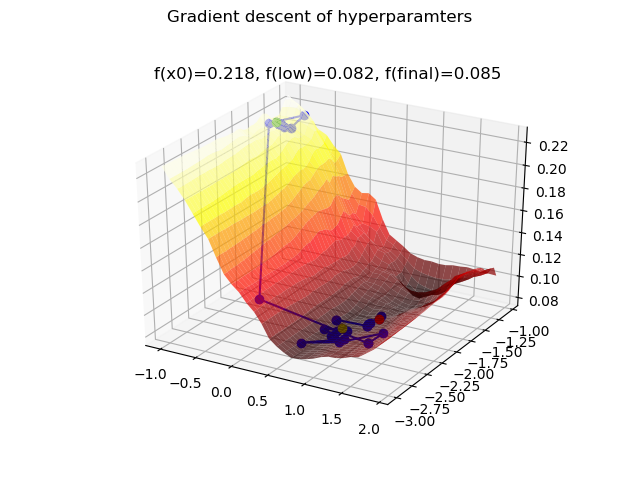
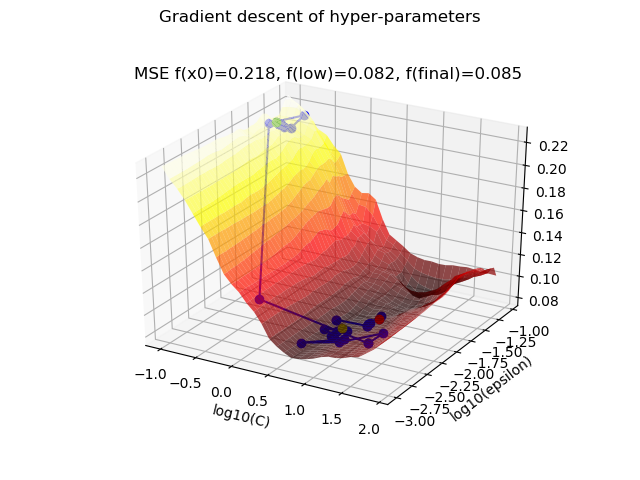
added labels to plots

diff --git a/plot.py b/plot.py
@@ -39,8 +39,12 @@ ax.plot([x[0]],[y[0]],[z[0]],'go-')
 ax.plot([x[-1]],[y[-1]],[z[-1]],'ro-')
 ax.plot([x[ilow]],[y[ilow]],[z[ilow]],'yo-')
 plt.draw()
-plt.suptitle("Gradient descent of hyperparamters")
-title="f(x0)={:5.3f}, f(low)={:5.3f}, f(final)={:5.3f}".format(z[0],zlow,z[-1])
+plt.suptitle("Gradient descent of hyper-parameters")
+title="MSE f(x0)={:5.3f}, f(low)={:5.3f}, f(final)={:5.3f}".format(z[0],zlow,z[-1])
 print(title)
 plt.title(title)
+plt.xlabel("log10(C)")
+plt.ylabel("log10(epsilon)")
+#plt.zlabel("MSE")
+#plt.show()
 fig.savefig(fname+".png")
